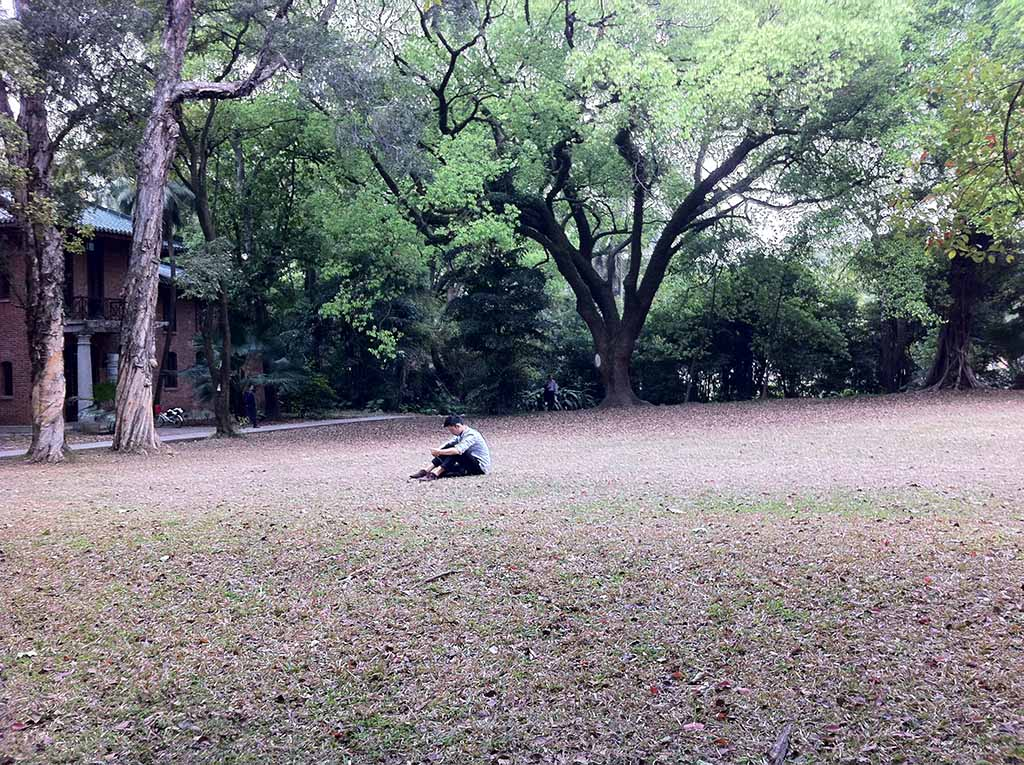
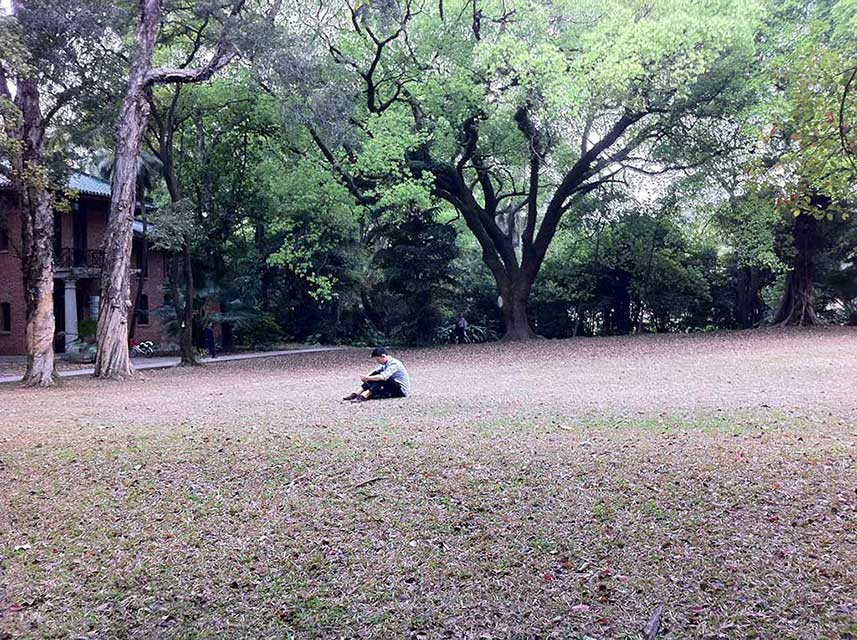
change image size

diff --git a/_site/album/漫游中大/index.html b/_site/album/漫游中大/index.html
@@ -161,13 +161,14 @@
 	<a href="http://localhost:4000/images/gallery/IMG_1982.jpg"><img src="http://localhost:4000/images/gallery/IMG_1982.jpg" /></a>
 </figure></p>
 
-<p>5.当然那么美丽的校园，图书馆自然不是读书的唯一去处，去图书馆借一本自己喜欢的小说，或坐在木椅或坐在草坪，那都是非常不错的选择。
+<p>5.当然那么美丽的校园，图书馆自然不是读书的唯一去处，去图书馆借一本自己喜欢的小说，或坐在木椅或坐在草坪，那都是非常不错的选择。</p>
+<html>
 <figure class="third">
 	<a href="http://image15-c.poco.cn/mypoco/myphoto/20140302/13/17425063820140302130551021.jpg"><img src="http://image15-c.poco.cn/mypoco/myphoto/20140302/13/17425063820140302130551021.jpg" /></a>
 	<a href="http://localhost:4000/images/gallery/IMG_1986.jpg"><img src="http://localhost:4000/images/gallery/IMG_1986.jpg" /></a>
 	<a href="http://localhost:4000/images/gallery/IMG_1984.jpg"><img src="http://localhost:4000/images/gallery/IMG_1984.jpg" /></a>
-</figure></p>
-
+</figure>
+</html>
 <p>6.终于，我沿着路旁参天的古树，来到了周围一片肃静的图书馆。凭着中山大学的校园卡刷卡入馆，最后我在馆内坐下，打开笔记本记录下这份回忆。
 <figure class="half">
 	<a href="http://image15-c.poco.cn/mypoco/myphoto/20140302/13/17425063820140302130319092.jpg"><img src="http://image15-c.poco.cn/mypoco/myphoto/20140302/13/17425063820140302130319092.jpg" /></a>

diff --git a/_site/index.html b/_site/index.html
@@ -180,6 +180,7 @@ Romain Rolland
 
 5.当然那么美丽的校园，图书馆自然不是读书的唯一去处，去图书馆借一本自己喜欢的小说，或坐在木椅或坐在草坪，那都是非常不错的选择。
 
+
 	
 	
 	

diff --git a/_site/test.html b/_site/test.html
@@ -1,0 +1,3 @@
+<html>
+<a href="http://image15-c.poco.cn/mypoco/myphoto/20140302/13/17425063820140302131050091.jpg"><img src="http://image15-c.poco.cn/mypoco/myphoto/20140302/13/17425063820140302131050091.jpg" /></a>  
+</html>

diff --git a/test.html b/test.html
@@ -1,0 +1,3 @@
+<html>
+<a href="http://image15-c.poco.cn/mypoco/myphoto/20140302/13/17425063820140302131050091.jpg"><img src="http://image15-c.poco.cn/mypoco/myphoto/20140302/13/17425063820140302131050091.jpg" /></a>  
+</html>

diff --git a/_posts/2014-03-01-漫游中大.md b/_posts/2014-03-01-漫游中大.md
@@ -50,12 +50,13 @@ mathjax:
 </figure>
 
 5.当然那么美丽的校园，图书馆自然不是读书的唯一去处，去图书馆借一本自己喜欢的小说，或坐在木椅或坐在草坪，那都是非常不错的选择。
+<html>
 <figure class="third">
 	<a href="http://image15-c.poco.cn/mypoco/myphoto/20140302/13/17425063820140302130551021.jpg"><img src="http://image15-c.poco.cn/mypoco/myphoto/20140302/13/17425063820140302130551021.jpg"></a>
 	<a href="{{ site.url }}/images/gallery/IMG_1986.jpg"><img src="{{ site.url }}/images/gallery/IMG_1986.jpg"></a>
 	<a href="{{ site.url }}/images/gallery/IMG_1984.jpg"><img src="{{ site.url }}/images/gallery/IMG_1984.jpg"></a>
 </figure>
-
+</html>
 6.终于，我沿着路旁参天的古树，来到了周围一片肃静的图书馆。凭着中山大学的校园卡刷卡入馆，最后我在馆内坐下，打开笔记本记录下这份回忆。
 <figure class="half">
 	<a href="http://image15-c.poco.cn/mypoco/myphoto/20140302/13/17425063820140302130319092.jpg"><img src="http://image15-c.poco.cn/mypoco/myphoto/20140302/13/17425063820140302130319092.jpg"></a>
